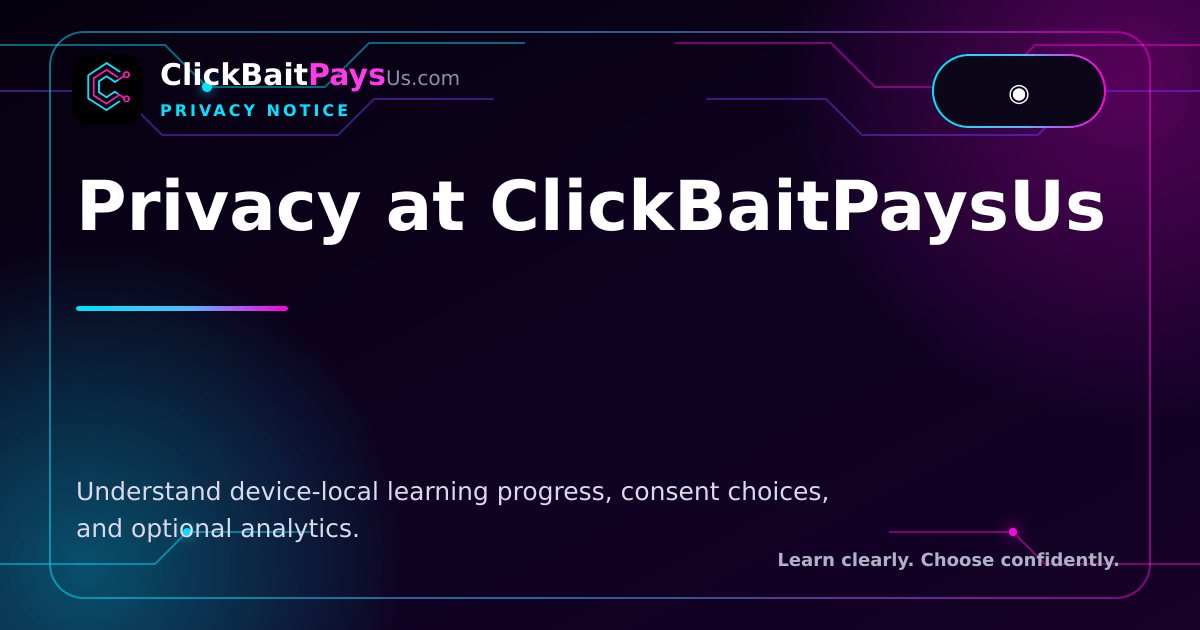
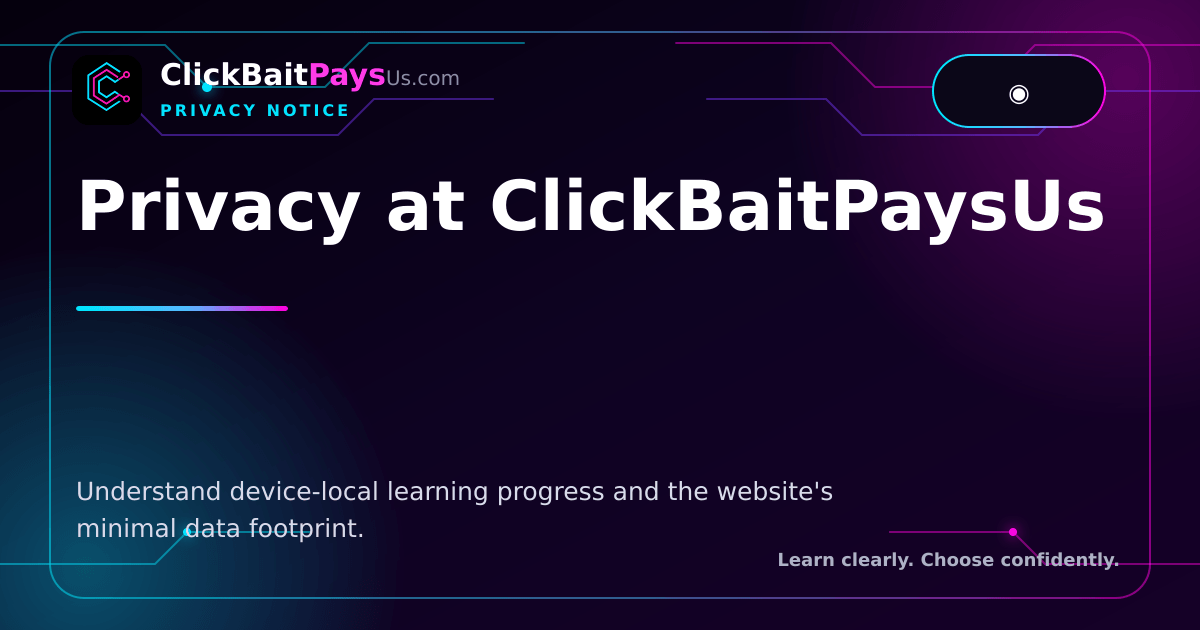
Add files via upload

Changed region(s): [[0.0617, 0.8143, 0.3083, 0.8746], [0.4933, 0.754, 0.7092, 0.8143]]

diff --git a/privacy.html b/privacy.html
@@ -4,7 +4,7 @@
   <meta charset="utf-8">
   <meta name="viewport" content="width=device-width, initial-scale=1">
   <title>ClickBaitPaysUs Privacy Notice | Device-Local Learning</title>
-  <meta name="description" content="Learn how ClickBaitPaysUs keeps course progress, theme choice, and consent in your browser, with optional analytics inactive unless enabled and accepted.">
+  <meta name="description" content="Learn how ClickBaitPaysUs keeps course progress and theme choice in your browser without accounts, a database, or an active website analytics service.">
   <meta name="author" content="MTG">
   <meta name="robots" content="index,follow,max-image-preview:large,max-snippet:-1,max-video-preview:-1">
   <link rel="canonical" href="https://clickbaitpaysus.com/privacy.html">
@@ -12,7 +12,7 @@
   <meta property="og:site_name" content="ClickBaitPaysUs Learning">
   <meta property="og:locale" content="en_US">
   <meta property="og:title" content="Privacy at ClickBaitPaysUs">
-  <meta property="og:description" content="Understand device-local learning progress, consent choices, and optional analytics.">
+  <meta property="og:description" content="Understand device-local learning progress and the website's minimal data footprint.">
   <meta property="og:url" content="https://clickbaitpaysus.com/privacy.html">
   <meta property="og:image" content="https://clickbaitpaysus.com/assets/social/privacy.png">
   <meta property="og:image:secure_url" content="https://clickbaitpaysus.com/assets/social/privacy.png">
@@ -22,7 +22,7 @@
   <meta property="og:image:alt" content="ClickBaitPaysUs privacy notice for device-local learning">
   <meta name="twitter:card" content="summary_large_image">
   <meta name="twitter:title" content="Privacy at ClickBaitPaysUs">
-  <meta name="twitter:description" content="Understand device-local learning progress, consent choices, and optional analytics.">
+  <meta name="twitter:description" content="Understand device-local learning progress and the website's minimal data footprint.">
   <meta name="twitter:image" content="https://clickbaitpaysus.com/assets/social/privacy.png">
   <meta name="twitter:image:alt" content="ClickBaitPaysUs privacy notice for device-local learning">
   <meta name="theme-color" content="#080015">
@@ -35,7 +35,7 @@
   <link rel="stylesheet" href="assets/styles.css">
   <script defer src="assets/config.js"></script>
   <script defer src="assets/app.js"></script>
-  <script type="application/ld+json">{"@context":"https://schema.org","@graph":[{"@type":"WebSite","@id":"https://clickbaitpaysus.com/#website","name":"ClickBaitPaysUs Learning","url":"https://clickbaitpaysus.com/","inLanguage":"en","publisher":{"@id":"https://clickbaitpaysus.com/#mtg"}},{"@type":"Person","@id":"https://clickbaitpaysus.com/#mtg","name":"MTG","url":"https://clickbaitpaysus.com/about.html","description":"ClickBaitPays member, affiliate educator, and creator of ClickBaitPaysUs."},{"@type":"WebPage","@id":"https://clickbaitpaysus.com/privacy.html#webpage","name":"ClickBaitPaysUs Privacy Notice | Device-Local Learning","headline":"Privacy at ClickBaitPaysUs","description":"Learn how ClickBaitPaysUs keeps course progress, theme choice, and consent in your browser, with optional analytics inactive unless enabled and accepted.","url":"https://clickbaitpaysus.com/privacy.html","inLanguage":"en","isPartOf":{"@id":"https://clickbaitpaysus.com/#website"},"author":{"@id":"https://clickbaitpaysus.com/#mtg"},"primaryImageOfPage":{"@type":"ImageObject","url":"https://clickbaitpaysus.com/assets/social/privacy.png","width":1200,"height":630}},{"@type":"BreadcrumbList","@id":"https://clickbaitpaysus.com/privacy.html#breadcrumb","itemListElement":[{"@type":"ListItem","position":1,"name":"Home","item":"https://clickbaitpaysus.com/"},{"@type":"ListItem","position":2,"name":"Privacy at ClickBaitPaysUs","item":"https://clickbaitpaysus.com/privacy.html"}]}]}</script>
+  <script type="application/ld+json">{"@context":"https://schema.org","@graph":[{"@type":"WebSite","@id":"https://clickbaitpaysus.com/#website","name":"ClickBaitPaysUs Learning","url":"https://clickbaitpaysus.com/","inLanguage":"en","publisher":{"@id":"https://clickbaitpaysus.com/#mtg"}},{"@type":"Person","@id":"https://clickbaitpaysus.com/#mtg","name":"MTG","url":"https://clickbaitpaysus.com/about.html","description":"ClickBaitPays member, affiliate educator, and creator of ClickBaitPaysUs."},{"@type":"WebPage","@id":"https://clickbaitpaysus.com/privacy.html#webpage","name":"ClickBaitPaysUs Privacy Notice | Device-Local Learning","headline":"Privacy at ClickBaitPaysUs","description":"Learn how ClickBaitPaysUs keeps course progress and theme choice in your browser without accounts, a database, or an active website analytics service.","url":"https://clickbaitpaysus.com/privacy.html","inLanguage":"en","isPartOf":{"@id":"https://clickbaitpaysus.com/#website"},"author":{"@id":"https://clickbaitpaysus.com/#mtg"},"primaryImageOfPage":{"@type":"ImageObject","url":"https://clickbaitpaysus.com/assets/social/privacy.png","width":1200,"height":630}},{"@type":"BreadcrumbList","@id":"https://clickbaitpaysus.com/privacy.html#breadcrumb","itemListElement":[{"@type":"ListItem","position":1,"name":"Home","item":"https://clickbaitpaysus.com/"},{"@type":"ListItem","position":2,"name":"Privacy at ClickBaitPaysUs","item":"https://clickbaitpaysus.com/privacy.html"}]}]}</script>
 </head>
 <body class="dashboard-page" data-page-title="Privacy">
   <a class="skip-link" href="#main">Skip to main content</a>
@@ -73,10 +73,10 @@
   <button class="sidebar-overlay" type="button" aria-label="Close dashboard menu"></button>
   <div class="dashboard-shell">
     <header class="dashboard-topbar"><button class="dashboard-menu-toggle" type="button" aria-expanded="false" aria-controls="dashboard-sidebar"><span></span><span></span><span></span><b class="sr-only">Open dashboard menu</b></button><a class="topbar-brand" href="index.html" aria-label="Return to the ClickBaitPays Learning homepage"><img src="assets/logo.png" alt=""><span><small>ClickBaitPays Learning</small><strong>Privacy</strong></span></a><div class="topbar-actions"><a class="button platform-register small" href="https://clickbaitpays.me/join.php?ref=mtgtraffic" target="_blank" rel="sponsored noopener">Register</a><a class="topbar-home" href="https://clickbaitpays.me/login.php" target="_blank" rel="noopener">Official Login</a></div></header>
-    <main id="main" class="dashboard-main"><nav class="breadcrumbs" aria-label="Breadcrumb"><a href="index.html">Home</a><span aria-hidden="true">/</span><span aria-current="page">Privacy</span></nav><section class="page-hero compact"><p class="eyebrow">INDEPENDENT AFFILIATE EDUCATION</p><h1>A small, device-local privacy footprint</h1></section><article class="legal-content"><p class="lead">This static website does not create course accounts, authenticate visitors, operate a database, or collect progress on a server.</p><h2>Browser-local information</h2><p>Theme preference, quiz completions, and analytics consent are stored in your browser. You can reset learning progress on the Start Here page or clear browser storage.</p><h2>Optional analytics</h2><p>Analytics remains inactive unless you consent and the website owner replaces the placeholder with a valid Google Analytics measurement ID. Essential site functions do not require analytics consent.</p><h2>External links and embeds</h2><p>Official platform pages, WhatsApp, YouTube, TikTok, and other external services have their own privacy practices. Video pages use YouTube's privacy-enhanced embed domain.</p></article></main>
+    <main id="main" class="dashboard-main"><nav class="breadcrumbs" aria-label="Breadcrumb"><a href="index.html">Home</a><span aria-hidden="true">/</span><span aria-current="page">Privacy</span></nav><section class="page-hero compact"><p class="eyebrow">INDEPENDENT AFFILIATE EDUCATION</p><h1>A small, device-local privacy footprint</h1></section><article class="legal-content"><p class="lead">This static website does not create course accounts, authenticate visitors, operate a database, or collect progress on a server.</p><h2>Browser-local information</h2><p>Theme preference and quiz completions are stored only in your browser so the learning experience can remember your choices on that device. You can reset learning progress on the Start Here page or clear browser storage.</p><h2>No website analytics</h2><p>This website does not currently load Google Analytics or another visitor-tracking service. You can begin learning immediately without making an analytics choice.</p><h2>External links and videos</h2><p>Official platform pages, WhatsApp, YouTube, and other external services have their own privacy practices. YouTube content loads only after you choose to play a video.</p></article></main>
     <div class="video-modal" id="video-modal" data-video-modal role="dialog" aria-modal="true" aria-labelledby="video-modal-title" hidden><button class="video-modal-backdrop" type="button" data-video-close aria-label="Close video"></button><div class="video-modal-panel"><div class="video-modal-head"><div><span data-video-modal-label>CLICKBAITPAYS VIDEO</span><h2 id="video-modal-title" data-video-modal-title>Watch and learn</h2></div><button class="video-close" type="button" data-video-close aria-label="Close video"><span aria-hidden="true">×</span></button></div><div class="video-modal-frame" data-video-player></div><p class="video-modal-note">The video loads only after you press Play and closes automatically when it finishes.</p></div></div>
     <footer class="dashboard-footer"><p>Made with ❤ by MTG 👑 | Your Digital Architect</p><nav aria-label="Footer"><a href="earnings-disclaimer.html">Earnings</a><a href="risk-disclaimer.html">Risk</a><a href="privacy.html">Privacy</a><a href="contact.html">Contact</a><a class="button secondary" href="https://www.youtube.com/@clickbaitpaysus" target="_blank" rel="noopener">YouTube</a></nav></footer>
   </div>
-  <button class="scroll-top" type="button" data-scroll-top aria-label="Scroll to the top"><span aria-hidden="true">↑</span></button><div class="consent-banner" data-consent-banner hidden><div><strong>Your privacy, your choice</strong><p>This site uses essential browser storage for theme and learning progress. Optional analytics stays off unless you allow it and a valid analytics ID is configured.</p></div><div><button class="button ghost" type="button" data-consent="essential">Essential only</button><button class="button primary" type="button" data-consent="analytics">Allow analytics</button></div></div><div class="toast" role="status" aria-live="polite" data-toast></div>
+  <button class="scroll-top" type="button" data-scroll-top aria-label="Scroll to the top"><span aria-hidden="true">↑</span></button><div class="toast" role="status" aria-live="polite" data-toast></div>
 </body>
 </html>

diff --git a/assets/styles.css b/assets/styles.css
@@ -444,10 +444,6 @@ tbody tr:hover { background: var(--surface-2); }
 .scroll-top:hover { border-color: var(--pink); color: #fff; }
 .scroll-top span { font-size: 1.25rem; line-height: 1; }
 
-.consent-banner { position: fixed; left: 1rem; right: 1rem; bottom: 1rem; z-index: 120; max-width: 900px; margin-inline: auto; display: flex; justify-content: space-between; gap: 1.5rem; padding: 1.15rem; border: 1px solid var(--border); border-radius: 18px; background: var(--surface-3); box-shadow: 0 18px 60px rgba(0,0,0,.4); }
-.consent-banner[hidden] { display: none; }
-.consent-banner strong { display: block; }.consent-banner p { margin: .2rem 0 0; color: var(--muted); font-size: .78rem; }
-.consent-banner > div:last-child { display: flex; align-items: center; gap: .6rem; }
 .toast { position: fixed; top: 110px; left: 50%; z-index: 200; max-width: min(520px, calc(100vw - 2rem)); padding: .9rem 1.2rem; border: 1px solid rgba(70,242,173,.5); border-radius: 999px; background: var(--surface-3); color: var(--text); box-shadow: 0 16px 48px rgba(0,0,0,.3); opacity: 0; pointer-events: none; transform: translate(-50%, -20px); transition: .3s ease; }
 .toast.show { opacity: 1; transform: translate(-50%, 0); }
 
@@ -507,9 +503,6 @@ tbody tr:hover { background: var(--surface-2); }
   .compare-callout > div { transform: rotate(90deg); }
   .glossary-grid { grid-template-columns: 1fr; }
   .action-staircase li { width: 100%; margin-left: 0 !important; grid-template-columns: 50px 1fr; }
-  .consent-banner { flex-direction: column; }
-  .consent-banner > div:last-child { align-items: stretch; flex-direction: column; }
-  .consent-banner .button { width: 100%; }
 }
 
 @media (max-width: 440px) {
@@ -530,7 +523,7 @@ tbody tr:hover { background: var(--surface-2); }
 }
 
 @media print {
-  .affiliate-strip, .site-header, .global-progress, .community-card, .site-footer, .floating-whatsapp, .consent-banner, .toast, .quiz-card { display: none !important; }
+  .affiliate-strip, .site-header, .global-progress, .community-card, .site-footer, .floating-whatsapp, .toast, .quiz-card { display: none !important; }
   body { background: #fff; color: #000; }
   main { width: 100%; }
   a { color: #000; }
@@ -548,7 +541,7 @@ html[data-theme="light"] .circuit-backdrop { opacity: .22; }
 .landing-header nav a { padding: .62rem .8rem; border-radius: 10px; color: var(--muted); font-size: .84rem; font-weight: 700; text-decoration: none; }
 .landing-header nav a:hover { background: rgba(255, 255, 255, .05); color: var(--text); }
 .landing-page .hero-v2 { width: min(calc(100% - 3rem), 1320px); min-height: calc(100vh - 98px); grid-template-columns: 1.15fr .85fr; gap: clamp(3rem, 7vw, 7rem); padding-block: clamp(5rem, 10vh, 8rem); }
-.hero-v2 .hero-copy { position: relative; }
+.hero-v2 .hero-copy { position: relative; min-width: 0; max-width: 100%; }
 .hero-v2 h1 { display: grid; margin-bottom: 1.6rem; font-size: clamp(4rem, 8.7vw, 8.3rem); line-height: .84; letter-spacing: -.075em; text-transform: uppercase; text-shadow: 0 0 36px rgba(177, 139, 255, .15); }
 .hero-v2 h1 .hero-white { color: #fff; }
 .hero-v2 h1 .hero-gradient { margin-top: .22em; background: linear-gradient(92deg, #00e5ff 0%, #37c9ff 37%, #c052ff 67%, #ff00df 100%); -webkit-background-clip: text; background-clip: text; color: transparent; filter: drop-shadow(0 0 18px rgba(0, 229, 255, .16)); }
@@ -858,6 +851,8 @@ h1, h2, h3, p, a, strong { overflow-wrap: break-word; }
   .landing-header .whatsapp { font-size: 0; }
   .landing-header .whatsapp::after { content: "WhatsApp"; font-size: .72rem; }
   .landing-page .hero-v2 { width: calc(100% - 2rem); min-height: auto; padding-block: 5rem; }
+  .hero-v2 .button-row { width: 100%; max-width: 640px; display: grid; grid-template-columns: repeat(2, minmax(0, 1fr)); align-items: stretch; }
+  .hero-v2 .button-row > .button { width: 100%; min-width: 0; max-width: 100%; padding-inline: .9rem; line-height: 1.35; text-align: center; white-space: normal; overflow-wrap: anywhere; }
   .intro-video-grid { grid-template-columns: 1fr; }
   .hero-v2 h1 { font-size: clamp(3.35rem, 18vw, 6rem); }
   .command-features { grid-template-columns: repeat(3, minmax(0, 1fr)); }
@@ -894,7 +889,7 @@ h1, h2, h3, p, a, strong { overflow-wrap: break-word; }
   .landing-header .whatsapp { min-height: 42px; padding-inline: .7rem; }
   .landing-page .hero-v2 { padding-block: 4rem; }
   .hero-v2 h1 { font-size: clamp(3rem, 17vw, 5rem); line-height: .88; }
-  .hero-v2 .button-row { display: grid; }
+  .hero-v2 .button-row { grid-template-columns: minmax(0, 1fr); }
   .hero-v2 .button { width: 100%; min-height: 58px; padding: .9rem 1rem; line-height: 1.35; text-align: center; white-space: normal; }
   .hero-command-card { padding: 1rem; border-radius: 20px; }
   .landing-video-card { border-radius: 19px; }
@@ -946,6 +941,7 @@ h1, h2, h3, p, a, strong { overflow-wrap: break-word; }
   .landing-header .icon-button { display: none; }
   .landing-header .whatsapp { margin-left: auto; }
   .hero-v2 h1 { font-size: clamp(2.75rem, 16vw, 4rem); }
+  .hero-v2 .button-row > .button { padding-inline: .75rem; font-size: clamp(.88rem, 4.3vw, 1rem); }
   .command-head { align-items: flex-start; flex-direction: column; }
   .command-features { grid-template-columns: 1fr; }
   .command-features span { min-height: 62px; }

diff --git a/index.html b/index.html
@@ -59,6 +59,6 @@
   <section class="section landing-final"><div><p class="eyebrow">READY WHEN YOU ARE</p><h2>Turn understanding into your next move.</h2><p>Open the learning dashboard, or create your free ClickBaitPays account and explore the official platform.</p></div><div class="button-row"><a class="button primary" href="dashboard.html">Open Learning Dashboard →</a><a class="button platform-register" href="https://clickbaitpays.me/join.php?ref=mtgtraffic" target="_blank" rel="sponsored noopener">Create My Free Account</a></div></section></main>
   <div class="video-modal" id="video-modal" data-video-modal role="dialog" aria-modal="true" aria-labelledby="video-modal-title" hidden><button class="video-modal-backdrop" type="button" data-video-close aria-label="Close video"></button><div class="video-modal-panel"><div class="video-modal-head"><div><span data-video-modal-label>CLICKBAITPAYS VIDEO</span><h2 id="video-modal-title" data-video-modal-title>Watch and learn</h2></div><button class="video-close" type="button" data-video-close aria-label="Close video"><span aria-hidden="true">×</span></button></div><div class="video-modal-frame" data-video-player></div><p class="video-modal-note">The video loads only after you press Play and closes automatically when it finishes.</p></div></div>
   <footer class="landing-footer"><div><a class="brand" href="index.html"><img src="assets/logo.png" alt=""><span>ClickBait<span>Pays</span></span></a><p>Independent, education-first guidance. Not the official ClickBaitPays website.</p></div><nav><a href="about.html">About</a><a href="resources.html">Resources</a><a href="affiliate-disclosure.html">Disclosure</a><a class="button secondary" href="https://www.youtube.com/@clickbaitpaysus" target="_blank" rel="noopener">YouTube</a><a class="button secondary" href="https://clickbaitpays.me/?ref=mtgtraffic" target="_blank" rel="sponsored noopener">Official Website</a><a class="button secondary" href="https://clickbaitpays.me/login.php" target="_blank" rel="noopener">Official Login</a></nav><p>Made with ❤ by MTG 👑 | Your Digital Architect</p></footer>
-  <button class="scroll-top" type="button" data-scroll-top aria-label="Scroll to the top"><span aria-hidden="true">↑</span></button><div class="consent-banner" data-consent-banner hidden><div><strong>Your privacy, your choice</strong><p>This site uses essential browser storage for theme and learning progress. Optional analytics stays off unless you allow it and a valid analytics ID is configured.</p></div><div><button class="button ghost" type="button" data-consent="essential">Essential only</button><button class="button primary" type="button" data-consent="analytics">Allow analytics</button></div></div><div class="toast" role="status" aria-live="polite" data-toast></div>
+  <button class="scroll-top" type="button" data-scroll-top aria-label="Scroll to the top"><span aria-hidden="true">↑</span></button><div class="toast" role="status" aria-live="polite" data-toast></div>
 </body>
 </html>

diff --git a/404.html b/404.html
@@ -26,6 +26,6 @@
   <main id="main"><section class="page-hero compact center-heading"><p class="eyebrow">404</p><h1>That page is not part of this learning path.</h1><p>Return home or continue in the learning dashboard.</p><div class="center-action"><a class="button primary" href="index.html">Return Home</a><a class="button secondary" href="dashboard.html">Open Dashboard</a></div></section></main>
   <div class="video-modal" id="video-modal" data-video-modal role="dialog" aria-modal="true" aria-labelledby="video-modal-title" hidden><button class="video-modal-backdrop" type="button" data-video-close aria-label="Close video"></button><div class="video-modal-panel"><div class="video-modal-head"><div><span data-video-modal-label>CLICKBAITPAYS VIDEO</span><h2 id="video-modal-title" data-video-modal-title>Watch and learn</h2></div><button class="video-close" type="button" data-video-close aria-label="Close video"><span aria-hidden="true">×</span></button></div><div class="video-modal-frame" data-video-player></div><p class="video-modal-note">The video loads only after you press Play and closes automatically when it finishes.</p></div></div>
   <footer class="landing-footer"><div><a class="brand" href="index.html"><img src="assets/logo.png" alt=""><span>ClickBait<span>Pays</span></span></a><p>Independent, education-first guidance. Not the official ClickBaitPays website.</p></div><nav><a href="about.html">About</a><a href="resources.html">Resources</a><a href="affiliate-disclosure.html">Disclosure</a><a class="button secondary" href="https://www.youtube.com/@clickbaitpaysus" target="_blank" rel="noopener">YouTube</a><a class="button secondary" href="https://clickbaitpays.me/?ref=mtgtraffic" target="_blank" rel="sponsored noopener">Official Website</a><a class="button secondary" href="https://clickbaitpays.me/login.php" target="_blank" rel="noopener">Official Login</a></nav><p>Made with ❤ by MTG 👑 | Your Digital Architect</p></footer>
-  <button class="scroll-top" type="button" data-scroll-top aria-label="Scroll to the top"><span aria-hidden="true">↑</span></button><div class="consent-banner" data-consent-banner hidden><div><strong>Your privacy, your choice</strong><p>This site uses essential browser storage for theme and learning progress. Optional analytics stays off unless you allow it and a valid analytics ID is configured.</p></div><div><button class="button ghost" type="button" data-consent="essential">Essential only</button><button class="button primary" type="button" data-consent="analytics">Allow analytics</button></div></div><div class="toast" role="status" aria-live="polite" data-toast></div>
+  <button class="scroll-top" type="button" data-scroll-top aria-label="Scroll to the top"><span aria-hidden="true">↑</span></button><div class="toast" role="status" aria-live="polite" data-toast></div>
 </body>
 </html>

diff --git a/advertiser-viewer-benefits.html b/advertiser-viewer-benefits.html
@@ -114,6 +114,6 @@
     <div class="video-modal" id="video-modal" data-video-modal role="dialog" aria-modal="true" aria-labelledby="video-modal-title" hidden><button class="video-modal-backdrop" type="button" data-video-close aria-label="Close video"></button><div class="video-modal-panel"><div class="video-modal-head"><div><span data-video-modal-label>CLICKBAITPAYS VIDEO</span><h2 id="video-modal-title" data-video-modal-title>Watch and learn</h2></div><button class="video-close" type="button" data-video-close aria-label="Close video"><span aria-hidden="true">×</span></button></div><div class="video-modal-frame" data-video-player></div><p class="video-modal-note">The video loads only after you press Play and closes automatically when it finishes.</p></div></div>
     <footer class="dashboard-footer"><p>Made with ❤ by MTG 👑 | Your Digital Architect</p><nav aria-label="Footer"><a href="earnings-disclaimer.html">Earnings</a><a href="risk-disclaimer.html">Risk</a><a href="privacy.html">Privacy</a><a href="contact.html">Contact</a><a class="button secondary" href="https://www.youtube.com/@clickbaitpaysus" target="_blank" rel="noopener">YouTube</a></nav></footer>
   </div>
-  <button class="scroll-top" type="button" data-scroll-top aria-label="Scroll to the top"><span aria-hidden="true">↑</span></button><div class="consent-banner" data-consent-banner hidden><div><strong>Your privacy, your choice</strong><p>This site uses essential browser storage for theme and learning progress. Optional analytics stays off unless you allow it and a valid analytics ID is configured.</p></div><div><button class="button ghost" type="button" data-consent="essential">Essential only</button><button class="button primary" type="button" data-consent="analytics">Allow analytics</button></div></div><div class="toast" role="status" aria-live="polite" data-toast></div>
+  <button class="scroll-top" type="button" data-scroll-top aria-label="Scroll to the top"><span aria-hidden="true">↑</span></button><div class="toast" role="status" aria-live="polite" data-toast></div>
 </body>
 </html>

diff --git a/how-clickbaitpays-works.html b/how-clickbaitpays-works.html
@@ -102,6 +102,6 @@
     <div class="video-modal" id="video-modal" data-video-modal role="dialog" aria-modal="true" aria-labelledby="video-modal-title" hidden><button class="video-modal-backdrop" type="button" data-video-close aria-label="Close video"></button><div class="video-modal-panel"><div class="video-modal-head"><div><span data-video-modal-label>CLICKBAITPAYS VIDEO</span><h2 id="video-modal-title" data-video-modal-title>Watch and learn</h2></div><button class="video-close" type="button" data-video-close aria-label="Close video"><span aria-hidden="true">×</span></button></div><div class="video-modal-frame" data-video-player></div><p class="video-modal-note">The video loads only after you press Play and closes automatically when it finishes.</p></div></div>
     <footer class="dashboard-footer"><p>Made with ❤ by MTG 👑 | Your Digital Architect</p><nav aria-label="Footer"><a href="earnings-disclaimer.html">Earnings</a><a href="risk-disclaimer.html">Risk</a><a href="privacy.html">Privacy</a><a href="contact.html">Contact</a><a class="button secondary" href="https://www.youtube.com/@clickbaitpaysus" target="_blank" rel="noopener">YouTube</a></nav></footer>
   </div>
-  <button class="scroll-top" type="button" data-scroll-top aria-label="Scroll to the top"><span aria-hidden="true">↑</span></button><div class="consent-banner" data-consent-banner hidden><div><strong>Your privacy, your choice</strong><p>This site uses essential browser storage for theme and learning progress. Optional analytics stays off unless you allow it and a valid analytics ID is configured.</p></div><div><button class="button ghost" type="button" data-consent="essential">Essential only</button><button class="button primary" type="button" data-consent="analytics">Allow analytics</button></div></div><div class="toast" role="status" aria-live="polite" data-toast></div>
+  <button class="scroll-top" type="button" data-scroll-top aria-label="Scroll to the top"><span aria-hidden="true">↑</span></button><div class="toast" role="status" aria-live="polite" data-toast></div>
 </body>
 </html>

diff --git a/platform-sustainability.html b/platform-sustainability.html
@@ -109,6 +109,6 @@
     <div class="video-modal" id="video-modal" data-video-modal role="dialog" aria-modal="true" aria-labelledby="video-modal-title" hidden><button class="video-modal-backdrop" type="button" data-video-close aria-label="Close video"></button><div class="video-modal-panel"><div class="video-modal-head"><div><span data-video-modal-label>CLICKBAITPAYS VIDEO</span><h2 id="video-modal-title" data-video-modal-title>Watch and learn</h2></div><button class="video-close" type="button" data-video-close aria-label="Close video"><span aria-hidden="true">×</span></button></div><div class="video-modal-frame" data-video-player></div><p class="video-modal-note">The video loads only after you press Play and closes automatically when it finishes.</p></div></div>
     <footer class="dashboard-footer"><p>Made with ❤ by MTG 👑 | Your Digital Architect</p><nav aria-label="Footer"><a href="earnings-disclaimer.html">Earnings</a><a href="risk-disclaimer.html">Risk</a><a href="privacy.html">Privacy</a><a href="contact.html">Contact</a><a class="button secondary" href="https://www.youtube.com/@clickbaitpaysus" target="_blank" rel="noopener">YouTube</a></nav></footer>
   </div>
-  <button class="scroll-top" type="button" data-scroll-top aria-label="Scroll to the top"><span aria-hidden="true">↑</span></button><div class="consent-banner" data-consent-banner hidden><div><strong>Your privacy, your choice</strong><p>This site uses essential browser storage for theme and learning progress. Optional analytics stays off unless you allow it and a valid analytics ID is configured.</p></div><div><button class="button ghost" type="button" data-consent="essential">Essential only</button><button class="button primary" type="button" data-consent="analytics">Allow analytics</button></div></div><div class="toast" role="status" aria-live="polite" data-toast></div>
+  <button class="scroll-top" type="button" data-scroll-top aria-label="Scroll to the top"><span aria-hidden="true">↑</span></button><div class="toast" role="status" aria-live="polite" data-toast></div>
 </body>
 </html>

diff --git a/what-is-clickbaitpays.html b/what-is-clickbaitpays.html
@@ -119,6 +119,6 @@
     <div class="video-modal" id="video-modal" data-video-modal role="dialog" aria-modal="true" aria-labelledby="video-modal-title" hidden><button class="video-modal-backdrop" type="button" data-video-close aria-label="Close video"></button><div class="video-modal-panel"><div class="video-modal-head"><div><span data-video-modal-label>CLICKBAITPAYS VIDEO</span><h2 id="video-modal-title" data-video-modal-title>Watch and learn</h2></div><button class="video-close" type="button" data-video-close aria-label="Close video"><span aria-hidden="true">×</span></button></div><div class="video-modal-frame" data-video-player></div><p class="video-modal-note">The video loads only after you press Play and closes automatically when it finishes.</p></div></div>
     <footer class="dashboard-footer"><p>Made with ❤ by MTG 👑 | Your Digital Architect</p><nav aria-label="Footer"><a href="earnings-disclaimer.html">Earnings</a><a href="risk-disclaimer.html">Risk</a><a href="privacy.html">Privacy</a><a href="contact.html">Contact</a><a class="button secondary" href="https://www.youtube.com/@clickbaitpaysus" target="_blank" rel="noopener">YouTube</a></nav></footer>
   </div>
-  <button class="scroll-top" type="button" data-scroll-top aria-label="Scroll to the top"><span aria-hidden="true">↑</span></button><div class="consent-banner" data-consent-banner hidden><div><strong>Your privacy, your choice</strong><p>This site uses essential browser storage for theme and learning progress. Optional analytics stays off unless you allow it and a valid analytics ID is configured.</p></div><div><button class="button ghost" type="button" data-consent="essential">Essential only</button><button class="button primary" type="button" data-consent="analytics">Allow analytics</button></div></div><div class="toast" role="status" aria-live="polite" data-toast></div>
+  <button class="scroll-top" type="button" data-scroll-top aria-label="Scroll to the top"><span aria-hidden="true">↑</span></button><div class="toast" role="status" aria-live="polite" data-toast></div>
 </body>
 </html>

diff --git a/about.html b/about.html
@@ -77,6 +77,6 @@
     <div class="video-modal" id="video-modal" data-video-modal role="dialog" aria-modal="true" aria-labelledby="video-modal-title" hidden><button class="video-modal-backdrop" type="button" data-video-close aria-label="Close video"></button><div class="video-modal-panel"><div class="video-modal-head"><div><span data-video-modal-label>CLICKBAITPAYS VIDEO</span><h2 id="video-modal-title" data-video-modal-title>Watch and learn</h2></div><button class="video-close" type="button" data-video-close aria-label="Close video"><span aria-hidden="true">×</span></button></div><div class="video-modal-frame" data-video-player></div><p class="video-modal-note">The video loads only after you press Play and closes automatically when it finishes.</p></div></div>
     <footer class="dashboard-footer"><p>Made with ❤ by MTG 👑 | Your Digital Architect</p><nav aria-label="Footer"><a href="earnings-disclaimer.html">Earnings</a><a href="risk-disclaimer.html">Risk</a><a href="privacy.html">Privacy</a><a href="contact.html">Contact</a><a class="button secondary" href="https://www.youtube.com/@clickbaitpaysus" target="_blank" rel="noopener">YouTube</a></nav></footer>
   </div>
-  <button class="scroll-top" type="button" data-scroll-top aria-label="Scroll to the top"><span aria-hidden="true">↑</span></button><div class="consent-banner" data-consent-banner hidden><div><strong>Your privacy, your choice</strong><p>This site uses essential browser storage for theme and learning progress. Optional analytics stays off unless you allow it and a valid analytics ID is configured.</p></div><div><button class="button ghost" type="button" data-consent="essential">Essential only</button><button class="button primary" type="button" data-consent="analytics">Allow analytics</button></div></div><div class="toast" role="status" aria-live="polite" data-toast></div>
+  <button class="scroll-top" type="button" data-scroll-top aria-label="Scroll to the top"><span aria-hidden="true">↑</span></button><div class="toast" role="status" aria-live="polite" data-toast></div>
 </body>
 </html>

diff --git a/account-rules-safety.html b/account-rules-safety.html
@@ -91,6 +91,6 @@
     <div class="video-modal" id="video-modal" data-video-modal role="dialog" aria-modal="true" aria-labelledby="video-modal-title" hidden><button class="video-modal-backdrop" type="button" data-video-close aria-label="Close video"></button><div class="video-modal-panel"><div class="video-modal-head"><div><span data-video-modal-label>CLICKBAITPAYS VIDEO</span><h2 id="video-modal-title" data-video-modal-title>Watch and learn</h2></div><button class="video-close" type="button" data-video-close aria-label="Close video"><span aria-hidden="true">×</span></button></div><div class="video-modal-frame" data-video-player></div><p class="video-modal-note">The video loads only after you press Play and closes automatically when it finishes.</p></div></div>
     <footer class="dashboard-footer"><p>Made with ❤ by MTG 👑 | Your Digital Architect</p><nav aria-label="Footer"><a href="earnings-disclaimer.html">Earnings</a><a href="risk-disclaimer.html">Risk</a><a href="privacy.html">Privacy</a><a href="contact.html">Contact</a><a class="button secondary" href="https://www.youtube.com/@clickbaitpaysus" target="_blank" rel="noopener">YouTube</a></nav></footer>
   </div>
-  <button class="scroll-top" type="button" data-scroll-top aria-label="Scroll to the top"><span aria-hidden="true">↑</span></button><div class="consent-banner" data-consent-banner hidden><div><strong>Your privacy, your choice</strong><p>This site uses essential browser storage for theme and learning progress. Optional analytics stays off unless you allow it and a valid analytics ID is configured.</p></div><div><button class="button ghost" type="button" data-consent="essential">Essential only</button><button class="button primary" type="button" data-consent="analytics">Allow analytics</button></div></div><div class="toast" role="status" aria-live="polite" data-toast></div>
+  <button class="scroll-top" type="button" data-scroll-top aria-label="Scroll to the top"><span aria-hidden="true">↑</span></button><div class="toast" role="status" aria-live="polite" data-toast></div>
 </body>
 </html>

diff --git a/action-plan.html b/action-plan.html
@@ -77,6 +77,6 @@
     <div class="video-modal" id="video-modal" data-video-modal role="dialog" aria-modal="true" aria-labelledby="video-modal-title" hidden><button class="video-modal-backdrop" type="button" data-video-close aria-label="Close video"></button><div class="video-modal-panel"><div class="video-modal-head"><div><span data-video-modal-label>CLICKBAITPAYS VIDEO</span><h2 id="video-modal-title" data-video-modal-title>Watch and learn</h2></div><button class="video-close" type="button" data-video-close aria-label="Close video"><span aria-hidden="true">×</span></button></div><div class="video-modal-frame" data-video-player></div><p class="video-modal-note">The video loads only after you press Play and closes automatically when it finishes.</p></div></div>
     <footer class="dashboard-footer"><p>Made with ❤ by MTG 👑 | Your Digital Architect</p><nav aria-label="Footer"><a href="earnings-disclaimer.html">Earnings</a><a href="risk-disclaimer.html">Risk</a><a href="privacy.html">Privacy</a><a href="contact.html">Contact</a><a class="button secondary" href="https://www.youtube.com/@clickbaitpaysus" target="_blank" rel="noopener">YouTube</a></nav></footer>
   </div>
-  <button class="scroll-top" type="button" data-scroll-top aria-label="Scroll to the top"><span aria-hidden="true">↑</span></button><div class="consent-banner" data-consent-banner hidden><div><strong>Your privacy, your choice</strong><p>This site uses essential browser storage for theme and learning progress. Optional analytics stays off unless you allow it and a valid analytics ID is configured.</p></div><div><button class="button ghost" type="button" data-consent="essential">Essential only</button><button class="button primary" type="button" data-consent="analytics">Allow analytics</button></div></div><div class="toast" role="status" aria-live="polite" data-toast></div>
+  <button class="scroll-top" type="button" data-scroll-top aria-label="Scroll to the top"><span aria-hidden="true">↑</span></button><div class="toast" role="status" aria-live="polite" data-toast></div>
 </body>
 </html>

diff --git a/affiliate-disclosure.html b/affiliate-disclosure.html
@@ -77,6 +77,6 @@
     <div class="video-modal" id="video-modal" data-video-modal role="dialog" aria-modal="true" aria-labelledby="video-modal-title" hidden><button class="video-modal-backdrop" type="button" data-video-close aria-label="Close video"></button><div class="video-modal-panel"><div class="video-modal-head"><div><span data-video-modal-label>CLICKBAITPAYS VIDEO</span><h2 id="video-modal-title" data-video-modal-title>Watch and learn</h2></div><button class="video-close" type="button" data-video-close aria-label="Close video"><span aria-hidden="true">×</span></button></div><div class="video-modal-frame" data-video-player></div><p class="video-modal-note">The video loads only after you press Play and closes automatically when it finishes.</p></div></div>
     <footer class="dashboard-footer"><p>Made with ❤ by MTG 👑 | Your Digital Architect</p><nav aria-label="Footer"><a href="earnings-disclaimer.html">Earnings</a><a href="risk-disclaimer.html">Risk</a><a href="privacy.html">Privacy</a><a href="contact.html">Contact</a><a class="button secondary" href="https://www.youtube.com/@clickbaitpaysus" target="_blank" rel="noopener">YouTube</a></nav></footer>
   </div>
-  <button class="scroll-top" type="button" data-scroll-top aria-label="Scroll to the top"><span aria-hidden="true">↑</span></button><div class="consent-banner" data-consent-banner hidden><div><strong>Your privacy, your choice</strong><p>This site uses essential browser storage for theme and learning progress. Optional analytics stays off unless you allow it and a valid analytics ID is configured.</p></div><div><button class="button ghost" type="button" data-consent="essential">Essential only</button><button class="button primary" type="button" data-consent="analytics">Allow analytics</button></div></div><div class="toast" role="status" aria-live="polite" data-toast></div>
+  <button class="scroll-top" type="button" data-scroll-top aria-label="Scroll to the top"><span aria-hidden="true">↑</span></button><div class="toast" role="status" aria-live="polite" data-toast></div>
 </body>
 </html>
